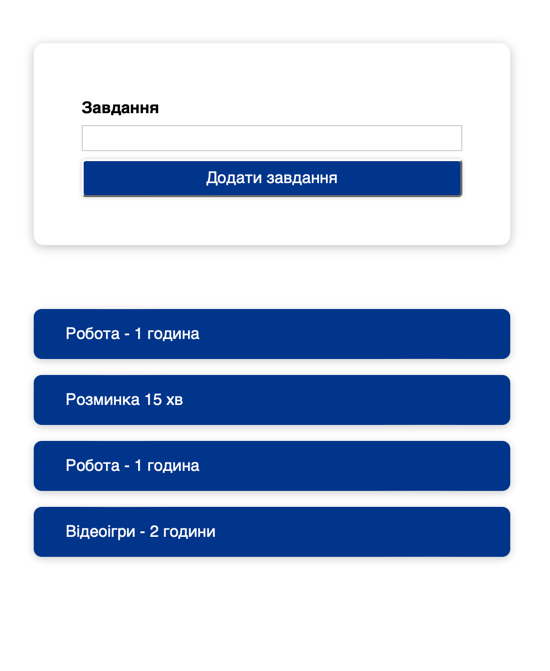
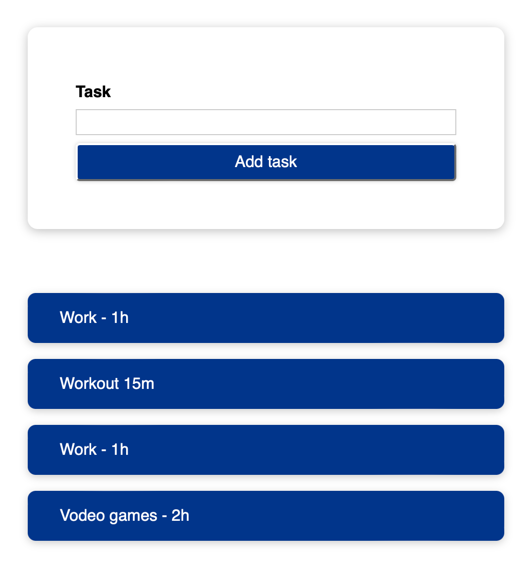
#8 change lang

diff --git a/src/App.js b/src/App.js
@@ -6,10 +6,10 @@ import "./App.css";
 
 const App = () => {
   const [tasks, setTasks] = useState([
-    { text: "Робота - 1 година", id: "t1" },
-    { text: "Розминка 15 хв", id: "t2" },
-    { text: "Робота - 1 година", id: "t3" },
-    { text: "Відеоігри - 2 години", id: "t4" },
+    { text: "Work - 1h", id: "t1" },
+    { text: "Workout 15m", id: "t2" },
+    { text: "Work - 1h", id: "t3" },
+    { text: "Vodeo games - 2h", id: "t4" },
   ]);
 
   const addTaskHandler = (inputText) => {

diff --git a/src/components/Tasks/TaskInput/TaskInput.js b/src/components/Tasks/TaskInput/TaskInput.js
@@ -28,14 +28,14 @@ const TaskInput = (props) => {
     <form onSubmit={formSubmitHandler}>
       <div className={`form-control ${!isInputValid ? "invalid" : ""}`}>
         <label>
-          Завдання
+          Task
         </label>
         <input
           type="text"
           onChange={taskInputChangeHandler}
         />
       </div>
-      <Button type="submit">Додати завдання</Button>
+      <Button type="submit">Add task</Button>
     </form>
   );
 };

diff --git a/public/index.html b/public/index.html
@@ -24,7 +24,7 @@
       work correctly both with client-side routing and a non-root public URL.
       Learn how to configure a non-root public URL by running `npm run build`.
     -->
-    <title>React App</title>
+    <title>Task Manager</title>
   </head>
   <body>
     <noscript>You need to enable JavaScript to run this app.</noscript>
